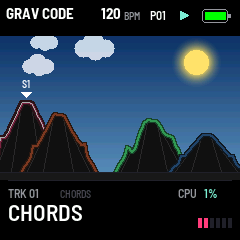
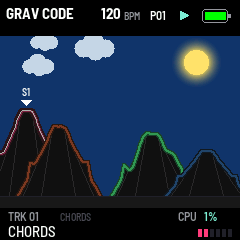
feat(grav-code): 0.29.2, a flat sky; HOME's scene taller, its band smaller
The sky is one colour, its top one. HOME's scene goes on 28 rows under the page (drawn into a second canvas: the
screen's holds 144 rows at most), its heaps a fifth bigger; HOME's bottom band is 32 pixels high instead of 60,
the sound's name in a smaller font, the level at its right.

diff --git a/grav-code/app.c b/grav-code/app.c
@@ -3327,11 +3327,14 @@ static void draw_pages(int32_t dy, uint32_t page, int32_t playing, int32_t frac)
 /* HOME: the terricons (0.28; 0.27's rings before). A ridge of eight, S1 at the left to D4 at the right, on one
  * ground line; each its height and place, the overlapping ones drawn from the tallest (furthest) to the lowest. Spoil
  * heaps as the Donbas has them: their tops flat, a terrace on each slope, gullies down them */
-#define TC_BASE 136                          /* the ground line */
-#define TC_HALF 38                           /* half a terricon's foot */
+#define HOME_FOOT 28                         /* (0.29.2) HOME's scene goes on under the page, 28 rows more (two canvases:
+                                              * 144 rows at most each); its band, 32 high, under it */
+#define HOME_BAND_Y (180 + HOME_FOOT)
+#define TC_BASE 160                          /* the ground line (in the scene, from the page's top) */
+#define TC_HALF 42                           /* half a terricon's foot */
 #define TC_N 22                              /* points up each slope (2 TC_N + 1 along it) */
 static const uint8_t TC_X[SEQ_TRACKS] = {26, 58, 92, 124, 152, 180, 206, 230};   /* its middle's x */
-static const uint8_t TC_H[SEQ_TRACKS] = {80, 66, 74, 58, 52, 58, 42, 46};        /* its height (to its point, cut) */
+static const uint8_t TC_H[SEQ_TRACKS] = {98, 80, 90, 71, 63, 71, 51, 56};        /* its height (to its point, cut) */
 static const uint8_t TC_ORDER[SEQ_TRACKS] = {0, 2, 1, 3, 5, 4, 7, 6};            /* tallest first */
 static const uint16_t TRACK_HUE[SEQ_TRACKS] = {   /* each track's colour, left to right: rose to violet */
     RGB(255, 61, 127), RGB(255, 106, 61), RGB(255, 166, 43), RGB(255, 225, 74),
@@ -3442,10 +3445,11 @@ static void ground_under(const int16_t *x, const int16_t *y, uint32_t n, int32_t
         }
 }
 
-static uint16_t sky_at(int32_t y, int32_t base)   /* the sky's colour on row y: darker up */
+static uint16_t sky_at(int32_t y, int32_t base)   /* the sky's colour on row y: one colour (0.29.2; 0.29 darker up) */
 {
-    const int32_t t = clamp(y * 256 / (base > 0 ? base : 1), 0, 256);
-    return set.sky == SKY_DAY ? mix565(RGB(18, 52, 110), RGB(95, 140, 190), t) : mix565(RGB(2, 3, 10), RGB(14, 20, 48), t);
+    (void)y;
+    (void)base;
+    return set.sky == SKY_DAY ? RGB(18, 52, 110) : RGB(2, 3, 10);
 }
 
 static float sky_flare(uint32_t look, uint32_t now, float ms)   /* the last hit of a track of this look, fading */
@@ -3514,7 +3518,7 @@ static void draw_moon(int32_t cx, int32_t cy, int32_t base, float time)
     }
 }
 
-static void draw_sky(int32_t base, uint32_t now)
+static void draw_sky(int32_t base, int32_t dy, uint32_t now)
 {
     if (set.sky == SKY_OFF)
         return;
@@ -3523,7 +3527,7 @@ static void draw_sky(int32_t base, uint32_t now)
     const float time = (float)(now % 600000u) * 0.001f;
     if (set.sky == SKY_DAY) {
         const float kick = sky_flare(LOOK_KICK, now, 120.0f);   /* the sun, flaring at each kick */
-        sky_light(196, 26, 11.0f + 2.0f * kick, 15.0f, RGB(255, 226, 110), RGB(255, 220, 90), 0.45f + 0.4f * kick, base,
+        sky_light(196, 26 + dy, 11.0f + 2.0f * kick, 15.0f, RGB(255, 226, 110), RGB(255, 220, 90), 0.45f + 0.4f * kick, base,
                   0, 0, 0.0f);
         static const int8_t PUFF[4][3] = {{0, 0, 9}, {10, -5, 11}, {22, 0, 9}, {12, 3, 9}};
         static const uint8_t AT[3] = {0, 90, 170}, Y[3] = {12, 30, 6}, SCALE[3] = {100, 80, 70};   /* (over the
@@ -3533,7 +3537,7 @@ static void draw_sky(int32_t base, uint32_t now)
             const float sc = (float)SCALE[c] * 0.01f;
             float pos = (float)AT[c] + time * speed * sc;
             pos -= fm_floorf(pos / 300.0f) * 300.0f;
-            const int32_t x0 = (int32_t)pos - 40, y0 = Y[c];
+            const int32_t x0 = (int32_t)pos - 40, y0 = Y[c] + dy;
             for (int32_t y = y0 - (int32_t)(16.0f * sc); y <= y0 + (int32_t)(12.0f * sc); y++) {
                 if (y < 0 || y >= base)
                     continue;
@@ -3562,7 +3566,7 @@ static void draw_sky(int32_t base, uint32_t now)
             if (life <= 0.0f)
                 continue;
             const uint32_t h = ic_hash(i * 977u + cycle * 131u);
-            const int32_t x = (int32_t)(h % 240u), y = 2 + (int32_t)((h >> 8) % 100u);
+            const int32_t x = (int32_t)(h % 240u), y = 2 + (int32_t)((h >> 8) % 110u) + dy;
             if (y >= base - 4)
                 continue;
             const int bright = i % 5u == 0u;
@@ -3581,7 +3585,7 @@ static void draw_sky(int32_t base, uint32_t now)
             const float f0 = (time - (float)n * 11.0f) / 0.7f;
             if (f0 < 1.0f) {
                 const uint32_t h = ic_hash(n * 7919u + 17u);
-                const float x0 = 60.0f + (float)(h % 150u), y0 = 4.0f + (float)((h >> 8) % 24u);
+                const float x0 = 60.0f + (float)(h % 150u), y0 = 4.0f + (float)((h >> 8) % 24u) + (float)dy;
                 for (int32_t k = 0; k < 12; k++) {
                     const float f = f0 - (float)k * 0.03f;
                     const int32_t x = (int32_t)(x0 - f * 70.0f), y = (int32_t)(y0 + f * 30.0f);
@@ -3592,7 +3596,7 @@ static void draw_sky(int32_t base, uint32_t now)
                 }
             }
         }
-        draw_moon(196, 26, base, time);
+        draw_moon(196, 26 + dy, base, time);
     }
 }
 
@@ -3608,7 +3612,7 @@ static void draw_terricons(int32_t dy, uint32_t now)
     const int day = set.sky == SKY_DAY;
     const uint16_t earth = day ? RGB(18, 16, 22) : C_BLACK;   /* (the heaps' black, by day dark earth) */
     int16_t px[2 * TC_N + 1], py[2 * TC_N + 1];
-    draw_sky(base, now);
+    draw_sky(base, dy, now);
     for (uint32_t o = 0; o < SEQ_TRACKS; o++) {
         const uint32_t t = TC_ORDER[o];
         if (!track_used(t))                  /* empty: no terricon */
@@ -3676,12 +3680,12 @@ static void draw_terricons(int32_t dy, uint32_t now)
 
 /* the selected track's level, six segments in its colour: in HOME's bottom band, at its right (0.29.1) */
 #define LEVEL_X 198
-#define LEVEL_Y 38
+#define LEVEL_Y 21
 static void draw_level(int32_t x, int32_t y)
 {
     const int32_t lv = (int32_t)(ui.level[track_sel] * 6.0f + 0.5f);
     for (int32_t k = 0; k < 6; k++)
-        cv_rect(x + k * 6, y, 4, 10, k < lv ? TRACK_HUE[track_sel] : C_LINE);
+        cv_rect(x + k * 6, y, 4, 8, k < lv ? TRACK_HUE[track_sel] : C_LINE);
 }
 
 /* SEQ (step mode): every track's steps of the page shown, a row each, in the track's colour (its terricon's, 0.28):
@@ -3929,13 +3933,18 @@ static void draw_splash(void)
 /* only the strip under the track's line (the steps moved, a flash, the cursor): not the whole screen */
 static void draw_seq_grid(void)
 {
-    if (active_page == PAGE_SEQ && !ui.step_mode) {   /* HOME's terricons: the whole page; the level, in the band */
+    if (active_page == PAGE_SEQ && !ui.step_mode) {   /* HOME's terricons: the whole page, the scene's foot under
+                                                       * it; the level, in the band */
+        const uint32_t now = plat_ms();
         cv_begin(240, 144, C_BLACK);
-        draw_terricons(0, plat_ms());
+        draw_terricons(0, now);
         cv_blit(0, 36);
-        cv_begin(36, 10, C_BLACK);
+        cv_begin(240, HOME_FOOT, C_BLACK);
+        draw_terricons(-144, now);
+        cv_blit(0, 180);
+        cv_begin(36, 8, C_BLACK);
         draw_level(0, 0);
-        cv_blit(LEVEL_X, 180 + LEVEL_Y);
+        cv_blit(LEVEL_X, HOME_BAND_Y + LEVEL_Y);
         return;
     }
     if (active_page == PAGE_MIXER) {
@@ -4140,34 +4149,34 @@ static void draw_home_band(void)
     text_cat(t, "TRK 0");
     int_text((int32_t)tr + 1, n);
     text_cat(t, n);
-    cv_text(8, 6, &FONT_XS, t, C_GRAY);
-    cv_text(60, 8, &FONT_T, grav_engine_name(*track_engine(tr)), C_DIM);
+    cv_text(8, 1, &FONT_XS, t, C_GRAY);
+    cv_text(60, 3, &FONT_T, grav_engine_name(*track_engine(tr)), C_DIM);
     const int silent = !SYNTH_IS_DRUM(tr) && !set.trk_voices[tr];   /* (0.27.1) VOICES OFF: it cannot sound */
     const char *state = silent ? "NO VOICE" : seq.mute >> tr & 1u ? "MUTE" : ui.solo >> tr & 1u ? "SOLO"
                       : fx_freeze ? "FREEZE" : "";
-    cv_text(172 - text_w(&FONT_XS, state), 6, &FONT_XS, state,   /* (ending clear of CPU) */
+    cv_text(172 - text_w(&FONT_XS, state), 1, &FONT_XS, state,   /* (ending clear of CPU) */
             silent || seq.mute >> tr & 1u ? C_RED : C_HI);
-    draw_cpu(178, 6);
+    draw_cpu(178, 1);
     draw_level(LEVEL_X, LEVEL_Y);
     if (ui.shown_count) {                    /* counting in: the beats to come */
         t[0] = 'I'; t[1] = 'N'; t[2] = ' ';
         int_text(ui.shown_count, t + 3);
-        cv_text(8, 26, &FONT_M, t, C_RED);
+        cv_text(8, 16, &FONT_S, t, C_RED);
         return;
     }
-    if (band_message(t, 220)) {              /* a moment's message: its first word small, the rest large */
+    if (band_message(t, 186)) {              /* a moment's message: its first word small, the rest a little larger */
         if (ui.msg_until && plat_ms() < ui.msg_until && ui.msg[1][0]) {
-            cv_text(8, 26, &FONT_XS, ui.msg[0], C_GRAY);
-            cv_text(8 + text_w(&FONT_XS, ui.msg[0]) + 6, 22, &FONT_M, ui.msg[1], C_HI);
+            cv_text(8, 17, &FONT_XS, ui.msg[0], C_GRAY);
+            cv_text(8 + text_w(&FONT_XS, ui.msg[0]) + 6, 16, &FONT_S, ui.msg[1], C_HI);
         } else
-            cv_text(8, 30, &FONT_S, t, C_HI);
+            cv_text(8, 17, &FONT_XS, t, C_HI);
         return;
     }
-    n[0] = 0;                                /* its sound: the preset's name, * once changed */
+    n[0] = 0;                                /* its sound: the preset's name, * once changed (0.29.2: smaller) */
     text_cat(n, preset_label(tr));
     if (preset_id[tr] == PRESET_CUSTOM && n[0] == 'C')   /* (none loaded: the engine's name) */
         n[0] = 0, text_cat(n, grav_engine_name(*track_engine(tr)));
-    cv_text(8, 22, text_w(&FONT_M, n) <= 224 ? &FONT_M : &FONT_S, n, C_WHITE);
+    cv_text(8, 16, text_w(&FONT_S, n) <= 186 ? &FONT_S : &FONT_XS, n, C_WHITE);
 }
 
 /* (0.26) the mixer's bottom band: its three knobs, small; under them how the keys act here, or a moment's message;
@@ -4302,6 +4311,15 @@ static void draw_midi_in(void)
 static void draw_bottom(void)
 {
     char t[48];
+    if (active_page == PAGE_SEQ && !ui.step_mode) {   /* HOME (0.29.2): the scene's foot, then a band 32 high */
+        cv_begin(240, HOME_FOOT, C_BLACK);
+        draw_terricons(-144, plat_ms());
+        cv_blit(0, 180);
+        cv_begin(240, 240 - HOME_BAND_Y, C_BLACK);
+        draw_home_band();
+        cv_blit(0, HOME_BAND_Y);
+        return;
+    }
     cv_begin(240, 60, C_BLACK);
     cv_rect(8, 0, 224, 1, C_LINE);
     if (active_page == PAGE_SEQ && !ui.step_mode)

diff --git a/README.ru.md b/README.ru.md
@@ -13,15 +13,16 @@
 
 ---
 
-Текущая версия: **0.29.1** (ночь ожила: луна справа переливается, звёзды гаснут и зажигаются; днём терриконы тёмные;
-уровень в нижней полосе), на основе 0.29.0, небо над HOME: днём голубое, солнце вспыхивает на бочке, облака плывут в
-темпе; ночью луна и звёзды, мерцающие на хэтах (GLO, страница SCREEN, K2 SKY: OFF, DAY, NIGHT); терриконы как в
-Донбассе — усечённые вершины, террасы, промоины. Ручки шагового режима вверху страницы. До этого: 0.28 — гряда из
-восьми терриконов на HOME, по террикону на дорожку, склоны изгибаются от звука своей дорожки по-своему для каждого
-движка, ряды шагового режима в тех же цветах, иконки всех движков перерисованы неоновыми картинками; 0.27 — браузер
-пресетов на PRESET и VOL в микшере — свой фейдер (0.27.1: VOICES больше не глушит другие дорожки; 0.27.2: код
-почищен); 0.26 — микшер на SEL (громкость, посылы, мьют, соло); 0.25 — доводка записи и выбор цветов на GLO; 0.24 —
-живая запись. HOME листает страницы; HOME зажат + SELECT переключает их быстро.
+Текущая версия: **0.29.2** (ровное небо, сцена HOME выше, нижняя полоса меньше; 0.29.1: ночь ожила: луна справа
+переливается, звёзды гаснут и зажигаются; днём терриконы тёмные; уровень в нижней полосе), на основе 0.29.0, небо
+над HOME: днём голубое, солнце вспыхивает на бочке, облака плывут в темпе; ночью луна и звёзды, мерцающие на хэтах
+(GLO, страница SCREEN, K2 SKY: OFF, DAY, NIGHT); терриконы как в Донбассе — усечённые вершины, террасы, промоины.
+Ручки шагового режима вверху страницы. До этого: 0.28 — гряда из восьми терриконов на HOME, по террикону на дорожку,
+склоны изгибаются от звука своей дорожки по-своему для каждого движка, ряды шагового режима в тех же цветах, иконки
+всех движков перерисованы неоновыми картинками; 0.27 — браузер пресетов на PRESET и VOL в микшере — свой фейдер
+(0.27.1: VOICES больше не глушит другие дорожки; 0.27.2: код почищен); 0.26 — микшер на SEL (громкость, посылы,
+мьют, соло); 0.25 — доводка записи и выбор цветов на GLO; 0.24 — живая запись. HOME листает страницы; HOME зажат +
+SELECT переключает их быстро.
 [Все параметры и управление](grav-code/docs/SOUND_CONTROLS.md).
 
 <p align="center"><img src="grav-code/docs/img/seq-playing.gif" width="490" alt="Один такт в симуляторе: терриконы HOME и сетка всех восьми дорожек в шаговом режиме"> <img src="grav-code/docs/img/sound-dials.gif" width="240" alt="Ручки страницы звука плавно доходят до значения, в симуляторе"></p>
@@ -128,7 +129,7 @@ K1 — TIMBRE, K2 — MORPH, K3 — HARMONICS (на экране — свои н
 2. Соберите сайт и запустите его (или используйте опубликованный):
 
    ```bash
-   python3 tools/make_site.py grav-code grav-code/build/grav_code-0.29.1.fwsc 0.29.1 grav-code/build/site
+   python3 tools/make_site.py grav-code grav-code/build/grav_code-0.29.2.fwsc 0.29.2 grav-code/build/site
    python3 -m http.server 8080 --directory grav-code/build/site
    ```
 
@@ -143,7 +144,7 @@ GRAV CODE собирается инструментом fm1-base `tools/build.py
 
 ```bash
 export JIELI_TOOLCHAIN="$HOME/.jieli/toolchain" AC79_SDK="$HOME/fw-AC79_AIoT_SDK"
-python3 tools/build.py grav-code --release 0.29.1      # grav-code/build/grav_code-0.29.1.fwsc
+python3 tools/build.py grav-code --release 0.29.2      # grav-code/build/grav_code-0.29.2.fwsc
 python3 tools/build.py grav-code --host                # симулятор для тестов:
 grav-code/build/host/grav_code_host grav-code/tests/basic.txt grav-code/build/host
 python3 tools/build.py grav-code --web                 # эмулятор в браузере (Emscripten)

diff --git a/README.md b/README.md
@@ -13,16 +13,16 @@ FM-1's own panel and screen.
 
 ---
 
-Current version: **0.29.1** (the night alive: the moon at the right, shimmering, stars coming and going; the heaps
-dark by day; the level in the bottom band), on 0.29.0's HOME under a sky: by day a blue one, its sun flaring at each
-kick, clouds drifting at the tempo's pace; by night a moon and stars twinkling at the hi-hats (GLO's SCREEN, K2 SKY:
-OFF, DAY, NIGHT); the terricons as the Donbas has them, flat-topped, terraced, gullied. Step mode's knobs at the top
-of its page. Before it: 0.28, HOME's ridge of eight terricons, a track each, bending with each track's own sound in
-its engine's way, step mode's rows in the same colours, and every engine's icon redrawn as a neon picture in its own
-colour; 0.27, the presets' browser on PRESET and the mixer's VOL its own fader (0.27.1: VOICES no longer silences
-other tracks; 0.27.2: the code tidied); 0.26, the mixer on SEL (levels, sends, mutes, solos); 0.25, recording
-finished and the colours chosen on GLO; 0.24, live recording. HOME advances pages; hold HOME and turn SELECT to
-jump.
+Current version: **0.29.2** (a flat sky, HOME's scene taller and its bottom band smaller; 0.29.1: the night alive:
+the moon at the right, shimmering, stars coming and going; the heaps dark by day; the level in the bottom band), on
+0.29.0's HOME under a sky: by day a blue one, its sun flaring at each kick, clouds drifting at the tempo's pace; by
+night a moon and stars twinkling at the hi-hats (GLO's SCREEN, K2 SKY: OFF, DAY, NIGHT); the terricons as the Donbas
+has them, flat-topped, terraced, gullied. Step mode's knobs at the top of its page. Before it: 0.28, HOME's ridge of
+eight terricons, a track each, bending with each track's own sound in its engine's way, step mode's rows in the same
+colours, and every engine's icon redrawn as a neon picture in its own colour; 0.27, the presets' browser on PRESET
+and the mixer's VOL its own fader (0.27.1: VOICES no longer silences other tracks; 0.27.2: the code tidied); 0.26,
+the mixer on SEL (levels, sends, mutes, solos); 0.25, recording finished and the colours chosen on GLO; 0.24, live
+recording. HOME advances pages; hold HOME and turn SELECT to jump.
 [All sound controls](grav-code/docs/SOUND_CONTROLS.md).
 
 <p align="center"><img src="grav-code/docs/img/seq-playing.gif" width="490" alt="One bar playing, in the simulator: HOME's terricons, and step mode's grid of all eight tracks"> <img src="grav-code/docs/img/sound-dials.gif" width="240" alt="The sound page's knobs easing to their values, in the simulator"></p>
@@ -127,7 +127,7 @@ manual has the details: [grav-code/docs/MANUAL.md](grav-code/docs/MANUAL.md).
 2. Make the site and serve it (or use the published one):
 
    ```bash
-   python3 tools/make_site.py grav-code grav-code/build/grav_code-0.29.1.fwsc 0.29.1 grav-code/build/site
+   python3 tools/make_site.py grav-code grav-code/build/grav_code-0.29.2.fwsc 0.29.2 grav-code/build/site
    python3 -m http.server 8080 --directory grav-code/build/site
    ```
 
@@ -142,7 +142,7 @@ JieLi's AC79 SDK.
 
 ```bash
 export JIELI_TOOLCHAIN="$HOME/.jieli/toolchain" AC79_SDK="$HOME/fw-AC79_AIoT_SDK"
-python3 tools/build.py grav-code --release 0.29.1      # grav-code/build/grav_code-0.29.1.fwsc
+python3 tools/build.py grav-code --release 0.29.2      # grav-code/build/grav_code-0.29.2.fwsc
 python3 tools/build.py grav-code --host                # the simulator, for the tests:
 grav-code/build/host/grav_code_host grav-code/tests/basic.txt grav-code/build/host
 python3 tools/build.py grav-code --web                 # the browser emulator (Emscripten)

diff --git a/grav-code/docs/MANUAL.md b/grav-code/docs/MANUAL.md
@@ -236,7 +236,7 @@ page and its row red in step mode; a soloed one shows SOLO. The keys still play 
 
 ### GLO (GLO)
 
-![The GLO page: the voices of S1..S4 and those free, S1's VOICES MONO, VELOCITY ON, METRONOME REC; ID FM-1_73002901, version 0.29.1](img/screen-glo.png "The GLO page")
+![The GLO page: the voices of S1..S4 and those free, S1's VOICES MONO, VELOCITY ON, METRONOME REC; ID FM-1_73002902, version 0.29.2](img/screen-glo.png "The GLO page")
 
 The firmware and its global settings:
 
@@ -299,7 +299,7 @@ running down them. Each has its own height and place; where they overlap, the lo
 
 ![HOME at night, in the simulator: the moon at the top right, shimmering; stars coming out and fading; the terricons in their colours](img/home-night.gif "HOME at night")
 
-- **The sky** (GLO's SCREEN, K2 SKY; 0.29): by DAY, as it comes, a blue sky, darker up, its sun at the top right
+- **The sky** (GLO's SCREEN, K2 SKY; 0.29): by DAY, as it comes, a deep blue sky (one colour since 0.29.2), its sun at the top right
   flaring at each kick, three clouds drifting across at the tempo's pace, the heaps dark against it (their tracks'
   colours only on their rims, a little brighter as they sound; 0.29.1); by NIGHT a crescent moon at the top right,
   its light shimmering, its glow breathing, a ripple of light going out from it now and again, and stars that come
@@ -314,8 +314,10 @@ running down them. Each has its own height and place; where they overlap, the lo
   hits, a snare a sharper one, a hi-hat small quick teeth, a bass big smooth waves, a pad slow ones.
 - **A muted track's terricon** (or one silenced by another's solo, the mixer) is grey and still.
 - **The selected track's terricon** is thicker, white at its core, with a marker and its name over its top; its
-  level, six segments in its colour, is at the right of the bottom band (0.29.1). SELECT picks another.
-- **The bottom band:** TRK 03 and its engine, MUTE / SOLO / FREEZE, CPU; its sound's name large (a * once changed
+  level, six segments in its colour, is at the right of the bottom band (0.29.1).
+- **The scene is taller** (0.29.2): it goes on under the page, 28 rows more, so the heaps stand bigger, and HOME's
+  bottom band is half as high, its sound's name smaller. SELECT picks another.
+- **The bottom band** (32 pixels high since 0.29.2): TRK 03 and its engine, MUTE / SOLO / FREEZE, CPU; its sound's name (a * once changed
   after its preset). A moment's message (TEMPO 120, PATTERN ...) takes its place, and while counting in IN 4 .. 1.
 - **K1 TEMPO** (30 to 300 BPM, a step is a 16th; the song's), **K2 SWING** (the selected track's, 50 % straight to
   75 %; with SEQ held, the pattern's, every track's), **K3 LENGTH** (the selected track's, 1 to 64 steps), K4 the

diff --git a/grav-code/docs/RELEASE_0.29.2.md b/grav-code/docs/RELEASE_0.29.2.md
@@ -1,0 +1,32 @@
+# GRAV CODE 0.29.2 — a flat sky, a taller scene
+
+Package: `grav_code-0.29.2.fwsc`, identity `FM-1_73002902`. After 0.29.1 (`a5f070a`: the night alive).
+
+![HOME by day: one deep blue, the heaps bigger, the band below smaller](img/screen-seq.png) ![HOME at night](img/screen-night.png)
+
+Asked for after 0.29.1 ran on the FM-1:
+
+- **The sky is one colour,** its top one (0.29 lightened it towards the ground): a deep blue by day, near black at
+  night.
+- **HOME's scene is taller.** It goes on under the page, 28 rows more, down to 32 pixels from the screen's foot; the
+  heaps are a fifth bigger (wider and taller), the ground lower.
+- **HOME's bottom band is half as high** (32 pixels instead of 60): TRK, the engine, MUTE / SOLO / FREEZE and CPU
+  on its first line; the sound's name, smaller (S instead of M), and the level at the right on its second. A
+  moment's message and the count-in take the second line, smaller too. Every other page's band is as it was.
+
+**In the code:** the screen's canvas holds 144 rows at most, so HOME's scene is drawn twice a frame, into the page
+(144 rows) and into its foot (`HOME_FOOT`, 28 rows under it, the same scene `draw_terricons(-144, ...)`); the sky
+takes its offset (`draw_sky(base, dy, ...)`). The band starts at `HOME_BAND_Y`.
+
+Validation on 29 October 2026:
+
+- All 18 simulator scenarios pass, and the screenshot script.
+- The pictures are new: HOME by day and at night, the lists and the browser over it, GLO's version, both GIFs.
+- The sequencer, pattern bank, preset and 1018 bit-exact dual-core tests pass.
+- Device build/compiler checks pass: image **422036 B** (+208), RAM **92568 / 98304 B** (**5736 B free**), pool
+  **332968 / 344064 B**. Package **611496 B**; no soft-double helpers, unsafe instruction patterns or direct register
+  access introduced.
+
[1 lines of base64/hex data omitted]
+
+Not yet installed on the FM-1.

diff --git a/grav-code/README.md b/grav-code/README.md
@@ -63,13 +63,13 @@ Python with Pillow (the fonts).
 
 ## Release and site
 
-    python3 tools/build.py grav-code --release 0.29.1    # grav-code/build/grav_code-0.29.1.fwsc, identity FM-1_73002901
+    python3 tools/build.py grav-code --release 0.29.2    # grav-code/build/grav_code-0.29.2.fwsc, identity FM-1_73002902
     python3 tools/build.py grav-code --web
-    python3 tools/make_site.py grav-code grav-code/build/grav_code-0.29.1.fwsc 0.29.1 grav-code/build/site
+    python3 tools/make_site.py grav-code grav-code/build/grav_code-0.29.2.fwsc 0.29.2 grav-code/build/site
 
 ## The pictures
 
-    python3 tools/build.py grav-code --host --release 0.29.1   # (so GLO shows the version and identity)
+    python3 tools/build.py grav-code --host --release 0.29.2   # (so GLO shows the version and identity)
     grav-code/build/host/grav_code_host grav-code/tests/screens.txt grav-code/docs/img
     python3 grav-code/docs/img/compose.py
 
